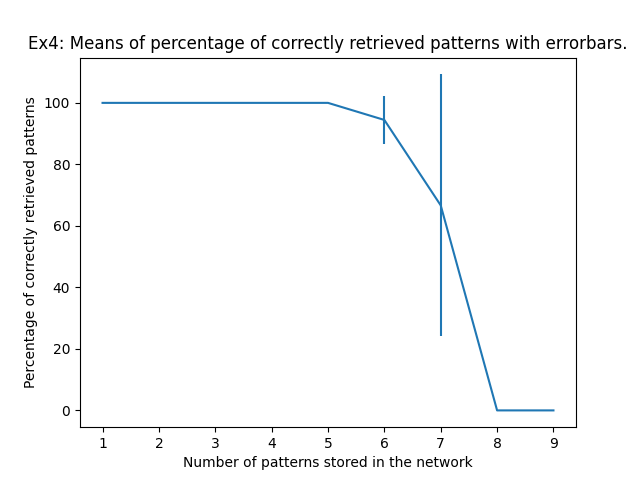
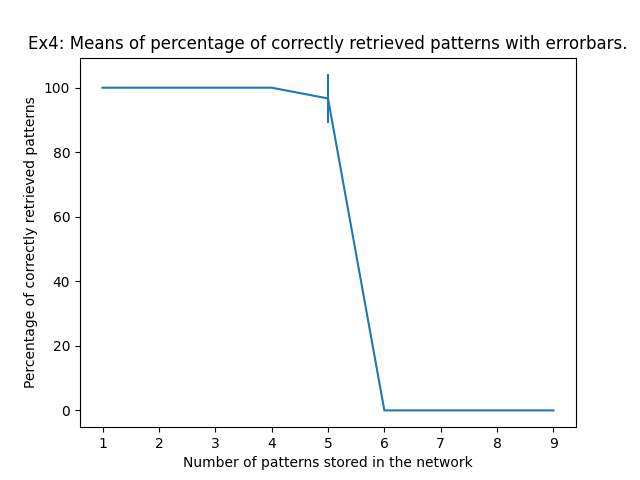
Initialize patterns only on excitatory neurons, update sync/async before weights

diff --git a/Part3/run.py b/Part3/run.py
@@ -6,10 +6,15 @@ from neurodynex.hopfield_network import network, pattern_tools
 # ----- Helper functions ----- #
 
 
-def create_random_patterns(N, a, n_patterns):
-    pattern_generator = pattern_tools.PatternFactory(N, pattern_width=1)
+def create_random_patterns(n_exc, n_inh, a, n_patterns):
+    pattern_generator = pattern_tools.PatternFactory(n_exc, pattern_width=1)
     patterns = pattern_generator.create_random_pattern_list(n_patterns, on_probability=a)
-    return patterns
+    patterns_final = []
+    for p in patterns:
+        zeros = np.zeros((n_exc+n_inh, 1))
+        zeros[:n_exc] = p
+        patterns_final.append(zeros)
+    return patterns_final
 
 
 def convert_patterns_to_0_and_1(patterns):
@@ -64,11 +69,11 @@ def compute_hamming_distance(pattern1, pattern2):
     return (np.sum(pattern1) + np.sum(pattern2) - 2*np.dot(pattern1.flatten(), pattern2.flatten())) / N
 
 
-def compute_distances(net, patterns, n_runs, distance_function, percentage=0.15):
+def compute_distances(net, patterns, n_runs, distance_function, n_exc, percentage=0.15):
     """
     Computes the distance between final state and target pattern for each pattern stored in the network.
     :param net: Hopfield network
-    :param patterns: Patterns stored in the network
+    :param patterns: Patterns stored in the network, but as -1 and 1
     :param n_runs: Number of runs to perform to reach the final state
     :param distance_function: Function used to compute the distance
     :param percentage: Percentage of flipped neurons in the initial state
@@ -78,9 +83,11 @@ def compute_distances(net, patterns, n_runs, distance_function, percentage=0.15)
     distances = np.zeros(len(patterns))
     n_flips = int(net.nrOfNeurons * percentage)
     for i, pattern in enumerate(patterns):
-        initial_state = pattern_tools.flip_n(pattern, n_flips)
-        initial_state_0_and_1 = convert_patterns_to_0_and_1([initial_state])[0]
-        net.set_state_from_pattern(initial_state_0_and_1)
+        initial_state = pattern_tools.flip_n(pattern[:n_exc], n_flips)  # Only flip excitatory neurons
+        initial_state = convert_patterns_to_0_and_1([initial_state])[0]  # Convert them to 0 and 1
+        initial_state_final = np.zeros((len(pattern), 1))
+        initial_state_final[:n_exc] = initial_state
+        net.set_state_from_pattern(initial_state_final)
         net.run(n_runs)
         final_state = net.state
         distances[i] = distance_function(final_state, np.squeeze(pattern))
@@ -107,38 +114,38 @@ def compute_m_max(m_vals, distances, tol_distance=0.05, tol_error_percentage=0.0
 # ----- Exercises code ----- #
 
 
-def ex3(n_patterns, a, sync=None):
-
-    n_exc = 300  # Excitatory population of size 300
-    n_inh = 80  # Inhibitory population of size 80
-
+def ex3(n_patterns, a, sync=None, n_exc=300, n_inh=80):
     N = n_exc + n_inh
     K = 60
 
     # Create network with excitatory + inhibitory neurons
     net = network.HopfieldNetwork(N)
     # Generate random patterns, map {-1, 1} to {0, 1}
-    patterns = create_random_patterns(N, a, n_patterns)
+    patterns = create_random_patterns(n_exc, n_inh, a, n_patterns)
     patterns_0_and_1 = convert_patterns_to_0_and_1(patterns)
-    # Generate weight matrix
-    weights = generate_weight_matrix(patterns_0_and_1, a, K, n_exc, n_inh)
-    # Save matrix to network
-    net.weights = weights
-    # Create dynamics function
-    update_dynamics = get_update_function(n_exc)
     # Set update sync
     if sync == True:
         net.set_dynamics_sign_sync()
     elif sync == False:
         net.set_dynamics_sign_async()
     # Else, leave default, whatever it is
+    # Generate weight matrix
+    weights = generate_weight_matrix(patterns_0_and_1, a, K, n_exc, n_inh)
+    # Save matrix to network
+    net.weights = weights
+    # Create dynamics function
+    update_dynamics = get_update_function(n_exc)
     # Set dynamics function to network
     net.set_dynamics_to_user_function(update_dynamics)
 
     return net, patterns  # Careful, patterns returned here are between -1 and 1!
 
 
-def ex4(n_steps, n_trials, sync=None, ex_number="4"):
+def ex4(n_steps, n_trials, sync=None, ex_number="4", return_mean_percentages=False):
+
+    n_exc = 300
+    n_inh = 80
+
     a = 0.1
     dict_sizes = range(1, 10, 1)
     all_percentages = []
@@ -148,8 +155,8 @@ def ex4(n_steps, n_trials, sync=None, ex_number="4"):
     for i in range(n_trials):
         distances = []
         for n_patterns in dict_sizes:
-            net, patterns = ex3(n_patterns, a, sync=sync)
-            dist = compute_distances(net, patterns, n_steps, distance_function, percentage=0.05)  # c = 5% when not specified
+            net, patterns = ex3(n_patterns, a, sync=sync, n_exc=n_exc, n_inh=n_inh)
+            dist = compute_distances(net, patterns, n_steps, distance_function, n_exc, percentage=0.05)  # c = 5% when not specified
             distances.append(dist)
         capacity, correctly_retrieved_percentage = compute_m_max(dict_sizes, distances, tol_distance=0.1)
         all_percentages.append(correctly_retrieved_percentage)
@@ -165,18 +172,34 @@ def ex4(n_steps, n_trials, sync=None, ex_number="4"):
     plt.savefig("plots/ex{}.png".format(ex_number))
     plt.show()
 
-    return np.mean(all_capacities)
+    if return_mean_percentages:
+        return dict_sizes, mean_of_percentages
+    else:
+        return np.mean(all_capacities)
 
 
 def ex5(n_steps, n_runs):
     sync = [False, True]
-    for s in sync:
-        suffix = "sync" if s else "async"
-        ex4(n_steps, n_runs, sync=s, ex_number="5_{}".format(suffix))
+    suffixes = ["sync", "async"]
+    mean_percentages = []
+    dict_sizes = None
+    for s, suffix in zip(sync, suffixes):
+        dict, mean = ex4(n_steps, n_runs, sync=s, ex_number="5_{}".format(suffix), return_mean_percentages=True)
+        dict_sizes = dict  # Both have the same dictionary sizes
+        mean_percentages.append(mean)
+
+    for i in range(len(sync)):
+        plt.plot(dict_sizes, mean_percentages[i], label=suffixes[i])
+    plt.title("Ex5: Means of percentage of correctly retrieved patterns comparison")
+    plt.xlabel("Number of patterns stored in the network")
+    plt.ylabel("Percentage of correctly retrieved patterns")
+    plt.legend()
+    plt.savefig("plots/ex5_comparison.png")
+    plt.show()
 
 
 if __name__ == "__main__":
     print("Exercise 4 (and 3) results:")
     mean_capacity = ex4(6, 6)
     print("Mean m_max value of the network for sparseness a = 0.1:", mean_capacity)
-    ex5(6, 6)
+    ex5(15, 15)
